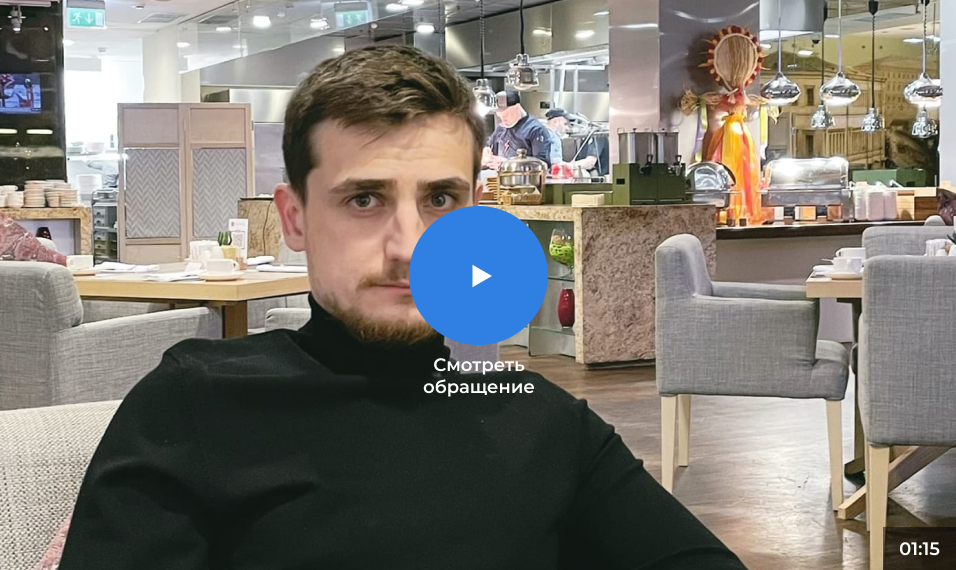
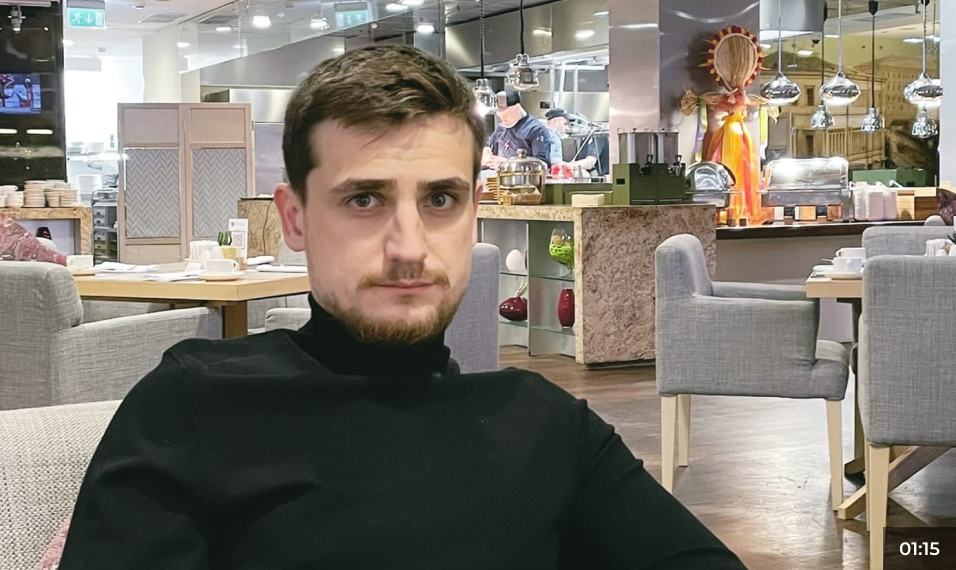
end work about hover effects

Changed region(s): [[0.4247, 0.3579, 0.5764, 0.7158]]

diff --git a/css/styles.css b/css/styles.css
@@ -737,6 +737,9 @@
     margin-left: -20px;
     font-weight: bold;
 }
+.checklist__link-get-checklist:hover{
+    background:#FFF07C;
+}
 /* styles for win-cases */
 .win-cases__title{
     font-weight: 700;
@@ -849,6 +852,7 @@
     margin-left:0px;
     padding-top:120px;
     padding-bottom:150px;
+    margin-left: 150px;
 }
 .offer__title{
     font-weight: 700;
@@ -876,6 +880,9 @@
     box-sizing: border-box;
     padding: 30px 63px;
     font-weight: bold;
+}
+.offer__link:hover{
+    background:#FFF07C;
 }
 .working-process__title{
     font-weight: 600;
@@ -916,6 +923,7 @@
 /* styles for owner section */
 .owner__content{
     text-align: center;
+    position: relative;
 }
 .owner__title{
     font-weight: 600;
@@ -1174,6 +1182,9 @@
     text-decoration: none;
     padding:30px 40px;
     margin:auto;
+}
+.offer-bankruptcy__link:hover{
+    background-color:#FFF07C;
 }
 .offer-bankruptcy__wallet-left,.offer-bankruptcy__wallet-right{
     position:absolute;
@@ -1505,4 +1516,15 @@
 }
 .link-arrow:hover{
     background-color:#307FE2;
+}
+.image-video-play{
+    position:absolute;
+    left:600px;
+    top:500px;
+    background-color:#307FE2;
+    padding:55px;
+    border-radius:50%;
+}
+.image-video-play:hover{
+    background-color:#3197F4;
 }

diff --git a/index.html b/index.html
@@ -485,6 +485,7 @@
                         <h2 class="owner__title">Посмотрите обращение<br> основателя нашей компании</h2>
                         <p class="owner__subtitle">Никиты Александровича Чижевского</p>
                         <img src="./img/image-video.png" alt="" class="owner__video-image" height="657px" width="956px">
+                        <a href="" class="link-play-video"><img src="./img/icon-play-video-big.svg" alt="" class="image-video-play"></a>
                     </div>
                 </div>
             </section>
